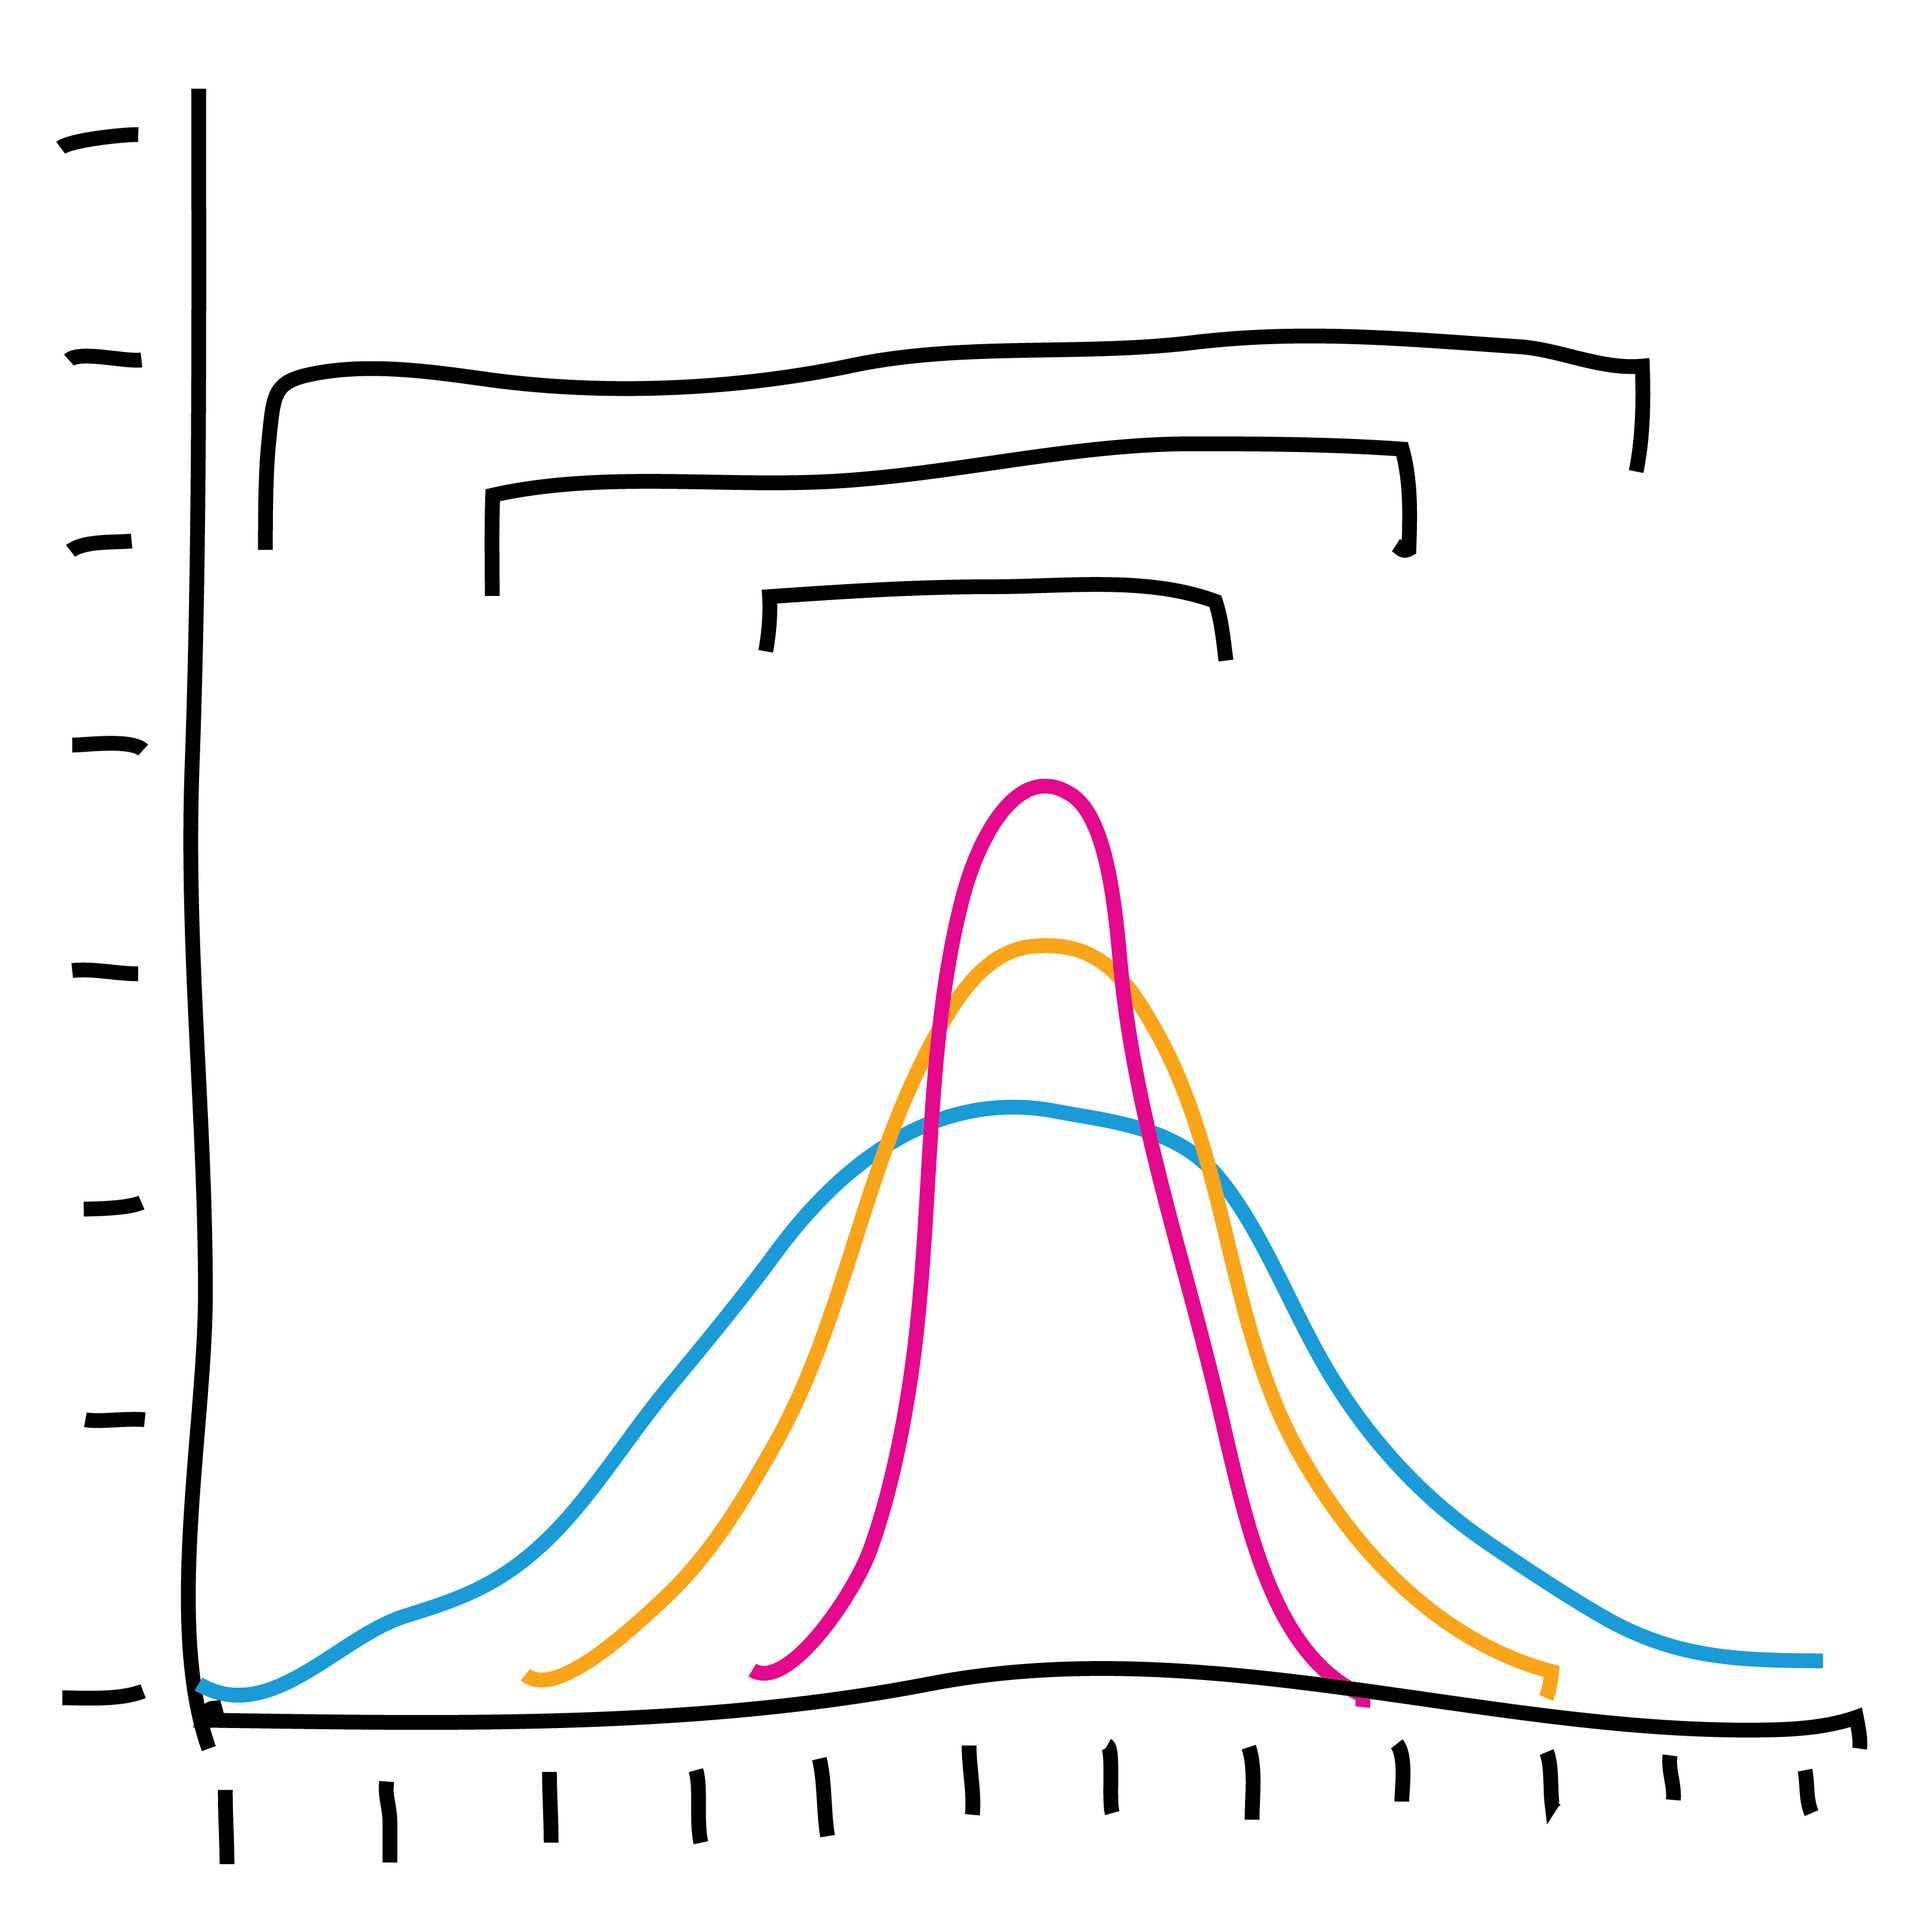
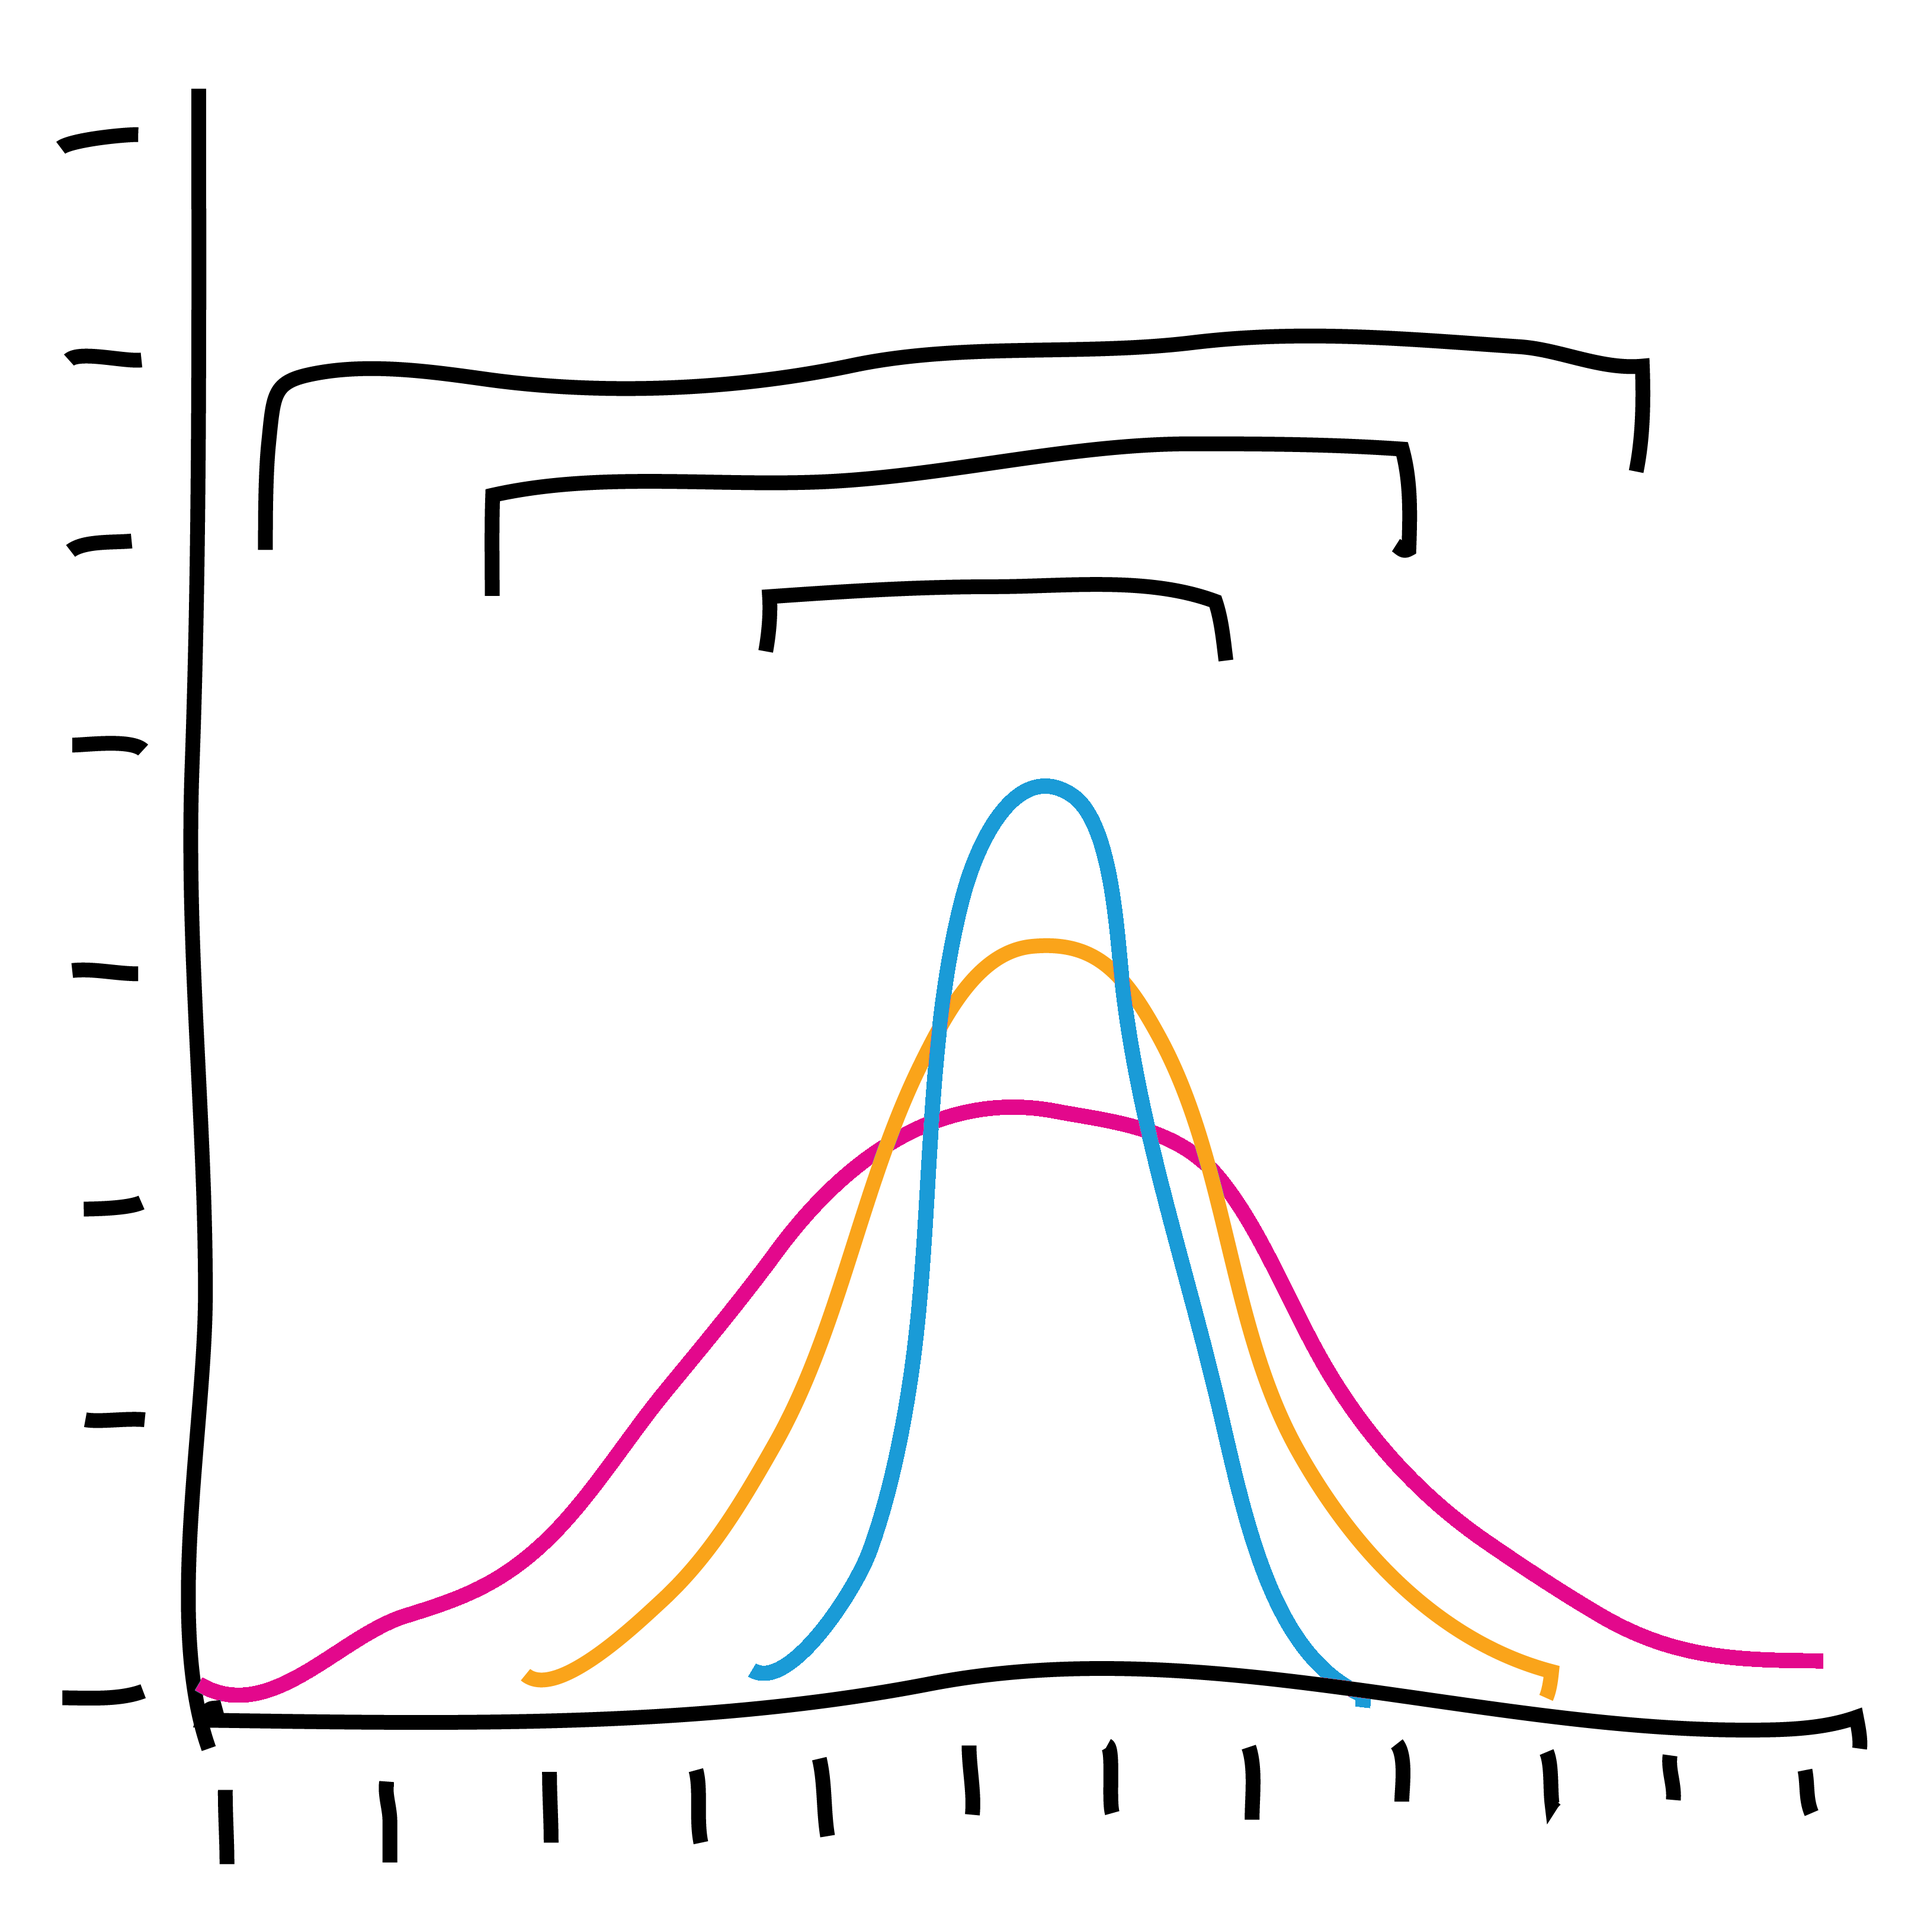
fixing a typo and an illustration-o. variance colors were reversed.

diff --git a/entries/statistics_for_software.md b/entries/statistics_for_software.md
@@ -3,7 +3,7 @@ title: Statistics for Software
 subtile: Easier development and maintenance through reintroduction
 ---
 
-<img width="25%" align="right" src="/uploads/illo/stats_stopwatch.png">
+ <img width="25%" align="right" src="/uploads/illo/stats_stopwatch.png">
 Software development begins as a quest for capability, doing what
 could not be done before. Once that *what* is achieved, the engineer
 is left with the *how*. In enterprise software, the most frequently
@@ -16,19 +16,21 @@ Yet most developers can't tell you much about statistics. Much like
 math, statistics simply don't come up for typical projects. Between
 coding the new and maintaining the old, who has the time?
 
-<!-- TODO
-* https://www.youtube.com/watch?v=lJ8ydIuPFeU
--->
-
-Engineers must make the time. TLDR seekers can head for our
+Engineers must make the time. I understand fifteen minutes can seem
+like a big commitment these days, so maybe
+[bookmark it][pinboard]. Insistent TLDR seekers can head for our
 [instrumentation section](#instrumentation) or straight to
-[the summary](#summary). For the dedicated few, class is in
-session. It's time to broach the topic, learn what works, and take the
-guesswork out of software. A few core practices go a long way in
-generating meaningful systems analysis. And a few common mistakes set
-projects way back. This guide aims to lighten software maintenance and
-speed up future development through answers made possible by the right
-kinds of applied statistics.
+[the summary](#summary).
+
+For the dedicated few, class is in session. It's time to broach the
+topic, learn what works, and take the guesswork out of software. A few
+core practices go a long way in generating meaningful systems
+analysis. And a few common mistakes set projects way back. This guide
+aims to lighten software maintenance and speed up future development
+through answers made possible by the right kinds of applied
+statistics.
+
+[pinboard]: https://pinboard.in/
 
 [TOC]
 
@@ -191,7 +193,7 @@ car. So statistics continues to provide.
 In the realm of software performance, data collection is automatable,
 to the point of making measurement *too* automatic. The problem
 becomes collation, indexing, and storage. Hard problems, replete with
-with hard-working people.
+hard-working people.
 
 Here we're trying to make things easier. We want to avoid those hard
 problems. The easiest way to avoid too much data is to throw data
@@ -222,7 +224,7 @@ enables random sampling over a stream:
 <img width="20%" align="right" src="/uploads/illo/stats_oveflow.png">
 First we designate a `counter`, which will be incremented for every
 data point seen. The `reservoir` is generally a list or array of
-predefined `size` Now we can begin adding data. Until we encounter
+predefined `size`. Now we can begin adding data. Until we encounter
 `size` elements, elements are added directly to `reservoir`. Once
 `reservoir` is full, incoming data points have a `size / counter`
 chance to replace an existing sample point. We never look at the value
@@ -242,7 +244,7 @@ process.
 
 ## Interpretations
 
-Once you have a reservoir what are the natural next steps? At PayPal,
+Once you have a reservoir, what are the natural next steps? At PayPal,
 our standard procedure looks like:
 
 1. Look at the min, max, and other quantiles of interest
@@ -325,20 +327,21 @@ premium. Reservoir sampling requires very little processing power,
 provided you have an efficient [PRNG][prng]. Even your Arduino has one
 of those. But memory costs can pile up. Generally speaking, accuracy
 scales with the square root of size. Twice as much accuracy will cost
-you four times as much memory, so there are diminishing returns. At
-PayPal, the typical reservoir is allocated 16,384 floating point
-slots, totalling 64 kilobytes. At this rate, the human developer runs
-into their memory limits before the server does. Tracking 500
-variables only takes 8 megabytes. As a developer, remembering what
-they all are is a different story.
+you four times as much memory, so there are diminishing returns.
+
+At PayPal, the typical reservoir is allocated 16,384 floating point
+slots, for a total of 64 kilobytes. At this rate, humans run out of
+memory before the servers do. Tracking 500 variables only takes 8
+megabytes. As a developer, remembering what they all are is a
+different story.
 
 [prng]: https://en.wikipedia.org/wiki/Pseudorandom_number_generator
 
 ## Transitions
 
-Usually, reservoir sampling gets us what we want and we can get on
-with non-statistical development. But sometimes, the situation calls
-for a more tailored approach.
+Usually, reservoirs get us what we want and we can get on with
+non-statistical development. But sometimes, the situation calls for a
+more tailored approach.
 
 At various points at PayPal, we've worked with [q-digests][qdigest],
 biased quantile estimators, and plenty of other advanced algorithms for
@@ -387,6 +390,7 @@ questions are, stick to general tools like reservoir sampling.**
 There are a lot of ways to combine statistics and engineering, so it's
 only fair that we offer some running starts.
 
+<a name="#instrumentation"></a>
 ## Instrumentation
 
 We focused a lot on statistical fundamentals, but how do we generate
@@ -569,11 +573,10 @@ system, as well as inform you as to redundant data collection.
 [multivariate]: https://en.wikipedia.org/wiki/Multivariate_statistics
 [correlation]: https://en.wikipedia.org/wiki/Correlation_and_dependence
 
+<img width="350px" align="right" src="/uploads/illo/stats_multimodal.png">
 [**Multimodal statistics**][multimodal] abound in real world data:
 multiple peaks or multiple distributions packed into a single
 dataset. Consider response times from an HTTP service:
-
-<img width="50%" align="right" src="/uploads/illo/stats_multimodal.png">
 
 * Successful requests ([200s][http200]) have a "normal" latency.
 * Client failures ([400s][http400]) complete quickly, as little work can be done with invalid requests.
@@ -625,7 +628,7 @@ $ uptime
 This output packs a lot of information into a small space, and is very
 cheap to track, but it takes some knowledge and understanding to
 interpret correctly. EWMA is simultaneously familiar and nuanced. It's
-fun to consider whether you want time series-style discete buckets or
+fun to consider whether you want time series-style discrete buckets or
 the continuous window of a moving statistic. For instance, do you want
 the counts for yesterday, or the past 24 hours? Do you want the
 previous hour or the last 60 minutes? Based on the questions people
@@ -637,7 +640,7 @@ metrics, and generally use a lot more time series.
 [ewma]: https://en.wikipedia.org/wiki/Moving_average#Exponential_moving_average
 [unix_load]: https://en.wikipedia.org/wiki/Load_%28computing%29
 
-<img width="50%" align="right" src="/uploads/illo/stats_bathtub.png">
+<img height="200px" align="right" src="/uploads/illo/stats_bathtub.png">
 [**Survival analysis**][survival] is used to analyze the lifetimes of
 system components, and must make an appearance in any engineering
 article about reliability. Invaluable for simulations and post-mortem
